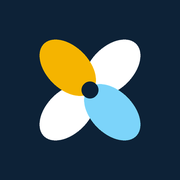
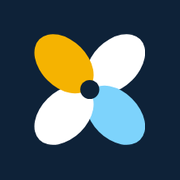
Nova versao do Evolui

Changed region(s): [[0.1667, 0.1667, 0.8056, 0.8056]]

diff --git a/index.html b/index.html
@@ -4,8 +4,9 @@
 <meta charset="utf-8">
 <meta name="viewport" content="width=device-width, initial-scale=1, viewport-fit=cover">
 <title>Evolui</title>
-<meta name="theme-color" content="#0D2237">
+<meta name="theme-color" content="#0E2238">
 <meta name="description" content="Evolui: ciclos de 30 dias, um registro por dia.">
+<script src="config.js"></script>
 <link rel="manifest" href="manifest.webmanifest">
 <link rel="icon" type="image/png" href="icon-192.png">
 <link rel="apple-touch-icon" href="apple-touch-icon.png">
@@ -84,25 +85,26 @@ button:focus-visible,input:focus-visible,textarea:focus-visible,select:focus-vis
 @media (prefers-reduced-motion:reduce){*{transition:none!important}}
 
 .brand{display:flex;align-items:center;gap:12px}
-.brand .logo{width:46px;height:46px;flex:none;background:#0D2237;border-radius:13px;padding:5px}
-.brand .logo svg{width:100%;height:100%;display:block}
+.brand .logo{width:46px;height:46px;flex:none;border-radius:13px;overflow:hidden;background:#0E2238}
+.brand .logo img{width:100%;height:100%;display:block}
 .by{display:flex;align-items:center;gap:6px;font-size:12.5px;color:var(--muted);margin-top:4px}
-.dayia{display:inline-flex;align-items:center;gap:5px;background:#0D2237;border-radius:999px;padding:3px 10px 3px 6px;font:700 13px/1 "Poppins",system-ui,sans-serif;color:#fff;letter-spacing:-.01em}
-.dayia svg{width:15px;height:15px;display:block}.dayia b{font-weight:700}.dayia i{font-style:normal;color:#7CD4FA}
-#splash{position:fixed;inset:0;z-index:99;background:#0D2237;display:flex;flex-direction:column;align-items:center;justify-content:center;gap:18px;transition:opacity .45s ease}
-#splash svg{width:96px;height:96px;animation:spin 1.1s ease-out}
+.dayia{display:block;height:22px;width:auto;background:#0E2238;border-radius:999px;padding:4px 10px}
+
+#splash{position:fixed;inset:0;z-index:99;background:#0E2238;display:flex;flex-direction:column;align-items:center;justify-content:center;gap:18px;transition:opacity .45s ease}
+#splash .sp-sym{width:104px;height:104px;animation:pop .8s ease-out}
+#splash .sp-logo{height:20px;width:auto;vertical-align:middle;margin-left:4px}
 #splash .name{font:600 34px/1 "Poppins",system-ui,sans-serif;color:#fff;letter-spacing:-.01em}
 #splash .sub{font:400 13px "Poppins",system-ui,sans-serif;color:#9DB0C4}#splash .sub b{color:#fff;font-weight:700}#splash .sub b span{color:#7CD4FA}
 #splash.hide{opacity:0;pointer-events:none}
-@keyframes spin{from{transform:rotate(-90deg) scale(.6);opacity:0}to{transform:none;opacity:1}}
-@media (prefers-reduced-motion:reduce){#splash svg{animation:none}}
+@keyframes pop{from{transform:scale(.8);opacity:0}to{transform:none;opacity:1}}
+@media (prefers-reduced-motion:reduce){#splash .sp-sym{animation:none}}
 </style>
 </head>
 <body>
-<div id="splash" aria-hidden="true"><svg viewBox="0 0 100 100" aria-hidden="true"><g><ellipse cx="66" cy="34" rx="24" ry="15" transform="rotate(-45 66 34)" fill="#fff"/><ellipse cx="34" cy="66" rx="24" ry="15" transform="rotate(-45 34 66)" fill="#fff"/><ellipse cx="34" cy="34" rx="24" ry="15" transform="rotate(45 34 34)" fill="#F5B400"/><ellipse cx="66" cy="66" rx="24" ry="15" transform="rotate(45 66 66)" fill="#7CD4FA"/><circle cx="50" cy="50" r="6" fill="#0D2237"/></g></svg><div class="name">Evolui</div><div class="sub">por <b>Day<span>IA</span></b></div></div>
+<div id="splash" aria-hidden="true"><img class="sp-sym" src="dayia-simbolo.png" alt=""><div class="name">Evolui</div><div class="sub">por <img class="sp-logo" src="dayia-logo.png" alt="DayIA"></div></div>
 <div class="wrap">
   <header class="top">
-    <div class="brand"><div class="logo"><svg viewBox="0 0 100 100" aria-hidden="true"><g><ellipse cx="66" cy="34" rx="24" ry="15" transform="rotate(-45 66 34)" fill="#fff"/><ellipse cx="34" cy="66" rx="24" ry="15" transform="rotate(-45 34 66)" fill="#fff"/><ellipse cx="34" cy="34" rx="24" ry="15" transform="rotate(45 34 34)" fill="#F5B400"/><ellipse cx="66" cy="66" rx="24" ry="15" transform="rotate(45 66 66)" fill="#7CD4FA"/><circle cx="50" cy="50" r="6" fill="#0D2237"/></g></svg></div><div><h1>Evolui</h1><div class="by">por <span class="dayia"><svg viewBox="0 0 100 100" aria-hidden="true"><g><ellipse cx="66" cy="34" rx="24" ry="15" transform="rotate(-45 66 34)" fill="#fff"/><ellipse cx="34" cy="66" rx="24" ry="15" transform="rotate(-45 34 66)" fill="#fff"/><ellipse cx="34" cy="34" rx="24" ry="15" transform="rotate(45 34 34)" fill="#F5B400"/><ellipse cx="66" cy="66" rx="24" ry="15" transform="rotate(45 66 66)" fill="#7CD4FA"/><circle cx="50" cy="50" r="6" fill="#0D2237"/></g></svg><b>Day<i>IA</i></b></span></div></div></div>
+    <div class="brand"><div class="logo"><img src="dayia-simbolo.png" alt=""></div><div><h1>Evolui</h1><div class="by">por <img class="dayia" src="dayia-logo.png" alt="DayIA"></div></div></div>
     <p id="subtitle">Ciclos de 30 dias, todos os dias da semana. Um registro por dia, sem pressa e sem culpa.</p>
   </header>
 
@@ -326,6 +328,70 @@ document.getElementById("bk-restore").onclick=()=>{const m=document.getElementBy
   catch(e){m.style.color="var(--hard)";m.textContent="Esse texto não parece um backup válido."}};
 
 sel=today();loadForm();renderRing();renderHist();fillBackup();renderThermo();
+</script>
+<div id="pw" hidden>
+ <div class="pw-box">
+  <h2>Continue evoluindo</h2>
+  <p id="pw-msg">Seu teste grátis terminou. Seus registros estão guardados e voltam assim que você liberar o app.</p>
+  <div class="pw-price"><b id="pw-preco"></b><span>pagamento único · sem mensalidade</span></div>
+  <a id="pw-buy" class="pw-btn" target="_blank" rel="noopener">Comprar agora</a>
+  <a id="pw-wa" class="pw-btn pw-ghost" target="_blank" rel="noopener">Já paguei: enviar comprovante</a>
+  <label for="pw-code" class="pw-lbl">Recebeu seu código de liberação?</label>
+  <div class="pw-row"><input id="pw-code" placeholder="EVO-XXXX-XXXX" autocomplete="off" autocapitalize="characters"><button id="pw-ok">Liberar</button></div>
+  <p id="pw-err" class="pw-err" role="alert"></p>
+  <button id="pw-close" class="pw-link" hidden>Voltar ao teste grátis</button>
+ </div>
+</div>
+<div id="pw-bar" hidden><span id="pw-bar-t"></span><button id="pw-bar-b">Comprar</button></div>
+<style>
+#pw{position:fixed;inset:0;z-index:90;background:rgba(13,34,55,.72);display:flex;align-items:center;justify-content:center;padding:18px}
+#pw[hidden],#pw-bar[hidden]{display:none}
+.pw-box{background:var(--card);color:var(--ink);border-radius:20px;max-width:400px;width:100%;padding:24px 20px;box-shadow:0 20px 50px rgba(0,0,0,.3)}
+.pw-box h2{margin:0 0 6px}.pw-box p{margin:0 0 14px;color:var(--muted);font-size:14.5px}
+.pw-price{display:flex;align-items:baseline;gap:10px;margin:4px 0 16px;flex-wrap:wrap}.pw-price b{font:700 30px/1 "Poppins",system-ui,sans-serif}.pw-price span{font-size:13px;color:var(--muted)}
+.pw-btn{display:block;text-align:center;text-decoration:none;font:600 15px "Poppins",system-ui,sans-serif;background:var(--accent);color:var(--on-accent);border-radius:12px;padding:13px;margin-bottom:9px}
+.pw-ghost{background:transparent;color:var(--ink);border:1.5px solid var(--line)}
+.pw-lbl{display:block;font-weight:600;font-size:14px;margin:14px 0 6px}
+.pw-row{display:flex;gap:8px}.pw-row input{flex:1;min-width:0;font:600 15px "Poppins",system-ui,sans-serif;letter-spacing:.04em;text-transform:uppercase;color:var(--ink);background:var(--bg);border:1px solid var(--line);border-radius:10px;padding:10px}
+.pw-row button,#pw-bar button{font:600 14px "Poppins",system-ui,sans-serif;border:0;border-radius:10px;padding:10px 14px;background:var(--accent);color:var(--on-accent);cursor:pointer}
+.pw-err{color:var(--hard)!important;min-height:1em;margin:8px 0 0!important;font-size:13.5px}
+.pw-link{background:none;border:0;color:var(--muted);text-decoration:underline;font:inherit;font-size:13.5px;cursor:pointer;margin-top:6px;padding:4px 0}
+#pw-bar{position:sticky;top:0;z-index:20;display:flex;align-items:center;justify-content:space-between;gap:10px;background:var(--calm-soft);color:var(--ink);font-size:13.5px;padding:8px 14px;padding-top:calc(8px + env(safe-area-inset-top,0px))}
+#pw-bar button{padding:7px 12px}
+</style>
+<script>
+(function(){
+const H=new Set(["f440cc915fedd67684de", "b70b27fd18d55c4e5898", "6865a328ab698c467c15", "5c60e9b879d292cd218f", "f94f9c318eca17fbd602", "467328454bd7fbc69d3b", "7de0c473af8fbbc092a1", "920c01b3b78fe6ebe1a0", "e0c1284f6dc6ad354e84", "5f3732ae5f9749616a73", "4c938134eb14663fc021", "1bf2090d89c1e58d5b45", "2ca3243a6008b0983c6b", "8c22e329fcf7831a6c8f", "cc27ae8f8731ce6e5567", "de97c9465198f86444e9", "548070bcf79be1530b44", "17c29d1f2d4170264593", "134da815cc632efac1a6", "b31752955ecc76bb8f1b", "148acf9289364fc78213", "f183013ebb3e5a0449ab", "6b6dc3bb40b4688b8d3b", "0ed15cfa8c7ae894c039", "e7362c27033478ab05fe", "1bfebb20115337502b0c", "e496c71604d6c9070564", "e1209a01c37edca468f6", "f11d559fce53af30a1f2", "3b1bfbf69a508eed7ccf", "5cd216c124cdf58d59af", "d021d26e4169cde00856", "a818c64684285917278e", "11675c6325f46dc5c39b", "385233d71f0fe06d3ba2", "ef37cc8d8484e082b68b", "2f98b664e1903b8d8a6f", "0a2fc50194936c894a48", "9c8c31ed885fc2daddbc", "bdd1b58e43ed8022e73a", "79d3f2a06817e604d702", "2087aff8d1af78b0285b", "a84464438f9efea2ca0e", "5c5d8b86131b37e0adb7", "8b5f6af1b60978609ab3", "60aa6f70e3086cca6449", "f63ffd5e94ed6200f752", "3129deac71981c53a35a", "fcd3deb6ae6f83958ef3", "c56a2d080361dad14a72", "70df7da0743ab94fe7e6", "65da1ec561d4d7b30279", "6cacff2f15fa456c144c", "f8109b99566a0791a8e8", "3c221ec625c932039f3b", "cd4edc15c2b1f03d3969", "d5484441670870e124a4", "153accf03c57a78367cf", "ecdf4a9ff21e5104772a", "068455c5ecbffc81892a", "918a25ace17365a1ecaa", "162810641bca502ec9cd", "c02052f6da1f76cc8a0f", "2a88aa8c26ca6249165b", "49db99de77af6a05c8d6", "ef48f590a66358a94e51", "15807b63b5c4444604e9", "3c745a0c7ef9748d17c5", "88f6bb057d6356afbd5d", "c7c2b85ff99f35965c6f", "30bd3a418cf1bdb2f8d2", "ab6a4a2f2a72b286dc8c", "272171bef6fe85f30bac", "76f1dd3566f23bd524ac", "39b3d036a9e09ba555f6", "337a2d326c55931b0b9d", "6d8ef9a5ce97f9e426e7", "c4e39a12552dc326449e", "178993f4ad981506631e", "5170d3e5da969f3dcc8a", "1d65356915dc6d8b8279", "bd5e279d891445c6e2b0", "ef703d5004db6d8d9223", "4b7f67fedd1019384055", "52480b0c26205aacd34d", "ffc4398d4d809e18707c", "ae405c338cf8807715ce", "1604adf11eaa0df91263", "1f4b7bab018aeb34ba80", "532611d76e77ade544e9", "2f9647a97f9f8bbc2c75", "a576329632681acf2184", "ff73567e65e33c016492", "cf6fc70995f30a70179d", "7e9f08a2c823b63800e3", "26907080917fa92b9f07", "191995170cb027560bb6", "4a2320c8268f6e894071", "1a2cbae7f93608b531f1", "ea924efce144b0e9ee53", "357bb4cb91768f6e80c6", "7edd5f47fd4d03b63992", "a717f9f1a0e1048bd788", "5d33dce5dfe51a3910c3", "a0f96963f496f3506b99", "e9a1e51f969486333300", "83b3a9d339fd9ebf8d70", "b8453b4bc04644632525", "32c819a8b0bdd341d0e2", "6f010a6fad7ed743cf9c", "752e2bd8e27e9d37cc03", "625bc23dc6c4ecf9c99f", "497000119bb9399d60c7", "dacd9930322f88d13f27", "63c2c028524ee82801b0", "5439ac1278ed6c47e1ff", "05bcc93d61f99e72bafe", "e4e22bb05cde05dfcfae", "cd0d52db6d181f0ef665", "de3204e41a8c6f249337", "a8125a302d4b822da859", "c3ad1fd1f2f538775960", "a6ce99df59ac0af29ca7", "dba9efae56b110c82504", "ce754aef23f4bb15a197", "776ed7f1c2e940057acb", "90f893bcdb6211b9e5a3", "7ad5ecc66286ce57b3dc", "e5044b89053e4299431f", "c2600f5b9239b554859d", "8fe765e63d6cac3293dd", "8da8f43a4827001e5f11", "1271b534beaad637ab5f", "8652d6a21d85555399ca", "898156a2c138f935bc98", "bdc84ca241b8fe331370", "2cd8ca6945fb8dc67349", "f532178a217e6c8e4167", "1ee60a3a44159729e8ea", "a93aa1c80e70881c19d1", "39797e3b97b7213de09e", "770b5e78d9885b91eb1f", "e12a60cf4a989caa0874", "262725b6213094ff5aff", "bd48ebfef92e1acb208b", "d9a103235ce075b32dfd", "0cd5a5ccd557013707cb", "1c36efb1c0cfc49dbc9e", "d2c2708acdd5bfd694c2", "155d27b845815f6816f4", "f6579e7d51d83f79c1d2", "74b8993bf5be15f518ae", "e130df5e8f50a3b54a5e", "958b80da9728d337ffa6", "b684a107e161f8c94bea", "86db1a20b9fa792a51e8", "2d59a060be5a75b6c67e", "f622fe6caaa6652a6c84", "f75ba00535a2f2d79440", "bdd9d92df4591ccf53fa", "4e3bd82100775454054d", "39dae151ace619934e35", "c2b064b4fb517f5934fc", "7b17d6ef227f81ec848e", "9ce2f29a410ec490238f", "60bfab9245ed74fed03a", "3b5fb42074d7f99433d3", "a398e48c66bae9c01ec1", "77136151777865ff1d4f", "d54543e8cfc02808af2f", "ef436d74b7e40ebc4e61", "d057109024ccc012f1cf", "1e53211e9bff2230f6f3", "e01406201b972b65d453", "7ad46dcb0cc6cecc7860", "89c53431d82c747dd9cf", "3b66e8327a26efa15e20", "b0f420b990a2280b8703", "d4e5e45e072be7564fad", "6809b289a2934436e1c5", "732896228d9e95da22e9", "c14fad5d2c97f8523cb1", "14fbebc4df67d739a01c", "fefccfd947a669b4e7d1", "2cc25225ab633e5cc992", "0e69016886c2a1558c33", "ade8725507ed532d65c1", "3bf3ccc49aadaf6f6c4c", "9bf69a840735372f2a56", "92d8df1f563ef49dc648", "e34f790e5a9986b75ae2", "11069e8dfabf81518134", "d5a241fef020d8868bcb", "c85402973077f1026606", "8b20150dca95d762b0f5", "f6c7ec204393fafef5c1", "cd1dbc774b31a9dfcfc6", "10e69982e978d8eaff9d", "f3919b5cde028a557ceb", "79d4218eabc0bf30783b", "5a503be346bcfbe66fcb", "ae4839759c7e1c44041f", "6a9de059a50967e4d15c", "e86276c4bfb7022b45e8", "914c4b71e75ec2dc5209", "066b33aa2a4cdd39e87b", "408732ba53b32d3bb637", "91ec3867f9abafac05d8", "bff1f4193108dd922172", "ab0ec0e30f6e64096ba7", "3d8084e7305b556e4c69", "58c5880105497d849644", "b96eab654f7ec5bc50a9", "0de06ebf023ed3b1edac", "6f4b2794f9e04cf29aa7", "47fee2979cb05d753a13", "452651f377bb9374fbad", "4b32eccfb311ae89f94e", "8a54ac1a97ff38ca51d1", "f6b7b8d6f0845db5dc57", "cdf87357bb3f91dd9481", "578d59b5128fbbb0ab44", "1d3be21973f847d1d626", "2edfa2d267ecfcfc51df", "5762da3ee392d9b614ac", "4cf8400adccbf9c5fccb", "365ba62a2f98d66c201b", "4d0720829849d4c84ace", "8f3cc7d04fdddb936a88", "96f04b177cb2d31ef14b", "a73a57dd81c9d101b4fb", "8fc804cdb890693255f7", "658a453bb251d514c58f", "40a56080b42a019a9f9a", "71de3c4a4c40917b4e97", "bb5db7cda50597da8836", "df400078511271f711c0", "e9102396dcb359f7f68a", "569d821465a7672a6ca3", "a07faa5a16eaca231014", "8e6c90e064ee3d9a3c69", "faf9a97328e006e912eb", "ebc208179d4d627bfe8e", "5f8941ac1e36270fc7a5", "abbcb54464848a9ce41e", "a8059ee5c4ffafa20ea4", "d2ae72722a1b2a8ef1bc", "5326e7d7066f630547a5", "b4583f0e4ea067442e13", "a30671591e46ae109cb5", "d83b005c1218855f4ccd", "9ea6ae81d06c7d8666a5", "c870ac640ccfd2bb62fb", "315b2259a5d21fd73c22", "bc4a1f0a08eb959e64c0", "c44a2377de190376f38a", "5f96a8e5035071ae369f", "42d1be9569942f931c37", "64de891d02463fd56b64", "4b6f04ee706352e7124c", "3081683746b91255d866", "d9a3f428a04320918ae2", "26890f7eb9267aab268c", "41622c24225c6b7bfcd7", "ee9b234c97f193bc553e", "cdf8287f979a02ab40a6", "bcc2d503dbbae363aef9", "8427a3f261470d0fb7d0", "c7da3105a6cd03ca6791", "ce9b928a8de27161fbed", "1882d7a5dc96e40a018e", "bcd1dec7f1158ccd3dec", "7e1e8c70e93f56ac830c", "683a7a2e12ffcfc526ad", "39fd99dc78a08b62c428", "cda867aceade3a3e5ee4", "261d6f118e9d74c8c401", "970c686c5888f973a3af", "42016bfa9128a9fc3328", "a04ac31c151fa44c85a6", "a39fcaa96c5782173efd", "238a098735ab746e6e94", "fc6a004b57f899030d0e", "059e2858d90c25338ed3", "df6711dd7bd14711a74b", "80d3e950837d8e7dc223", "1c9b2d265493a0151494", "0274730d3ec44af2c2f4", "b6407344b5d1e645d59b", "800562f6b918e7ab2be0", "f829c4dde404462f970b", "20e2570cd2f272a60fdc", "49e894c3bbff6078ac11", "9ed79eb1024318b9bd4f", "8c9f7fa53957e5c77b85", "cc9f4c7166f67290cfa6", "fc925d763f560b750154", "2e261fc179261381a013", "81806222824fa0777e00", "b3eee3e8868cf518ad49"]);
+const LIC="evolui_licenca";
+const cfg={link:window.EVOLUI_LINK_PAGAMENTO||"",wa:(window.EVOLUI_WHATSAPP||"").replace(/\D/g,""),preco:window.EVOLUI_PRECO||"R$ 15,90"};
+const get=k=>{try{return localStorage.getItem(k)}catch(e){return null}}, set=(k,v)=>{try{localStorage.setItem(k,v)}catch(e){}};
+const norm=c=>(c||"").toUpperCase().replace(/[^A-Z0-9]/g,"");
+async function valido(c){c=norm(c);if(c.length<10)return false;const b=await crypto.subtle.digest("SHA-256",new TextEncoder().encode("evolui:"+c));return H.has([...new Uint8Array(b)].map(x=>x.toString(16).padStart(2,"0")).join("").slice(0,20))}
+const $=id=>document.getElementById(id), pw=$("pw"), bar=$("pw-bar");document.body.prepend(bar);
+let liberadoOk=false, pendente=null;
+$("pw-preco").textContent=cfg.preco;$("pw-buy").textContent="Comprar por "+cfg.preco;$("pw-buy").href=cfg.link;
+$("pw-wa").href="https://wa.me/"+cfg.wa+"?text="+encodeURIComponent("Olá! Comprei o Evolui ("+cfg.preco+") e vou enviar o comprovante para receber meu código de liberação.");
+function abrir(msg){pw.hidden=false;$("pw-close").hidden=false;$("pw-msg").textContent=msg;$("pw-err").textContent=""}
+function liberar(){liberadoOk=true;pw.hidden=true;bar.hidden=true}
+$("pw-close").textContent="Continuar explorando";
+$("pw-close").onclick=()=>{pw.hidden=true;pendente=null};
+$("pw-bar-b").onclick=()=>abrir("Libere o Evolui para sempre com um pagamento único. Depois de pagar, envie o comprovante e você recebe seu código.");
+// Bloqueia salvar e restaurar enquanto o app não estiver liberado
+document.addEventListener("click",e=>{
+ if(liberadoOk)return;
+ const alvo=e.target.closest&&e.target.closest("#save,#bk-restore");
+ if(!alvo)return;
+ e.preventDefault();e.stopPropagation();pendente=alvo.id;
+ abrir(alvo.id==="save"?"Gostou do Evolui? Para salvar o seu dia e acompanhar sua evolução, libere o app com um pagamento único. O que você escreveu continua aqui na tela.":"Para restaurar seus registros, libere o Evolui com um pagamento único.");
+},true);
+$("pw-ok").onclick=async()=>{const c=$("pw-code").value;$("pw-err").textContent="";
+ if(await valido(c)){set(LIC,norm(c));liberar();const p=pendente;pendente=null;
+  alert("Pronto! O Evolui está liberado neste aparelho. Guarde seu código: ele serve se você trocar de celular.");
+  if(p)$(p).click();}
+ else $("pw-err").textContent="Código não reconhecido. Confira as letras e os números e tente de novo."};
+$("pw-code").addEventListener("keydown",e=>{if(e.key==="Enter")$("pw-ok").click()});
+(async()=>{if(get(LIC)&&await valido(get(LIC)))liberar();else{bar.hidden=false;$("pw-bar-t").textContent="Modo demonstração: explore à vontade"}})();
+})();
 </script>
 <script>
 setTimeout(()=>{const sp=document.getElementById("splash");if(sp){sp.classList.add("hide");setTimeout(()=>sp.remove(),500)}},1300);

diff --git a/privacidade.html b/privacidade.html
@@ -1,0 +1,66 @@
+<!DOCTYPE html>
+<html lang="pt-BR">
+<head>
+<meta charset="utf-8">
+<meta name="viewport" content="width=device-width, initial-scale=1">
+<title>Política de Privacidade · Evolui</title>
+<style>
+:root{--bg:#F2F5F9;--card:#fff;--ink:#0D2237;--muted:#5B6B7D;--line:#D9E1EA}
+@media (prefers-color-scheme:dark){:root{--bg:#1B3654;--card:#24456A;--ink:#fff;--muted:#C2D1E1;--line:#36597F}}
+*{box-sizing:border-box}
+body{margin:0;background:var(--bg);color:var(--ink);font:16px/1.65 system-ui,-apple-system,"Segoe UI",Roboto,sans-serif}
+main{max-width:720px;margin:0 auto;padding:28px 18px 60px}
+.card{background:var(--card);border:1px solid var(--line);border-radius:16px;padding:22px 20px}
+h1{font-size:28px;line-height:1.2;margin:0 0 4px}
+h2{font-size:19px;margin:26px 0 6px}
+p,li{margin:0 0 10px}
+.muted{color:var(--muted);font-size:14px}
+a{color:inherit}
+</style>
+</head>
+<body>
+<main>
+<div class="card">
+<h1>Política de Privacidade do Evolui</h1>
+<p class="muted">Última atualização: 4 de outubro de 2026</p>
+
+<p>O Evolui é um aplicativo de registro diário, desenvolvido pela DayIA, para ajudar você a acompanhar como lidou com as situações do dia e a perceber sua evolução em ciclos de 30 dias. Esta política explica, de forma simples, o que acontece com as informações que você registra.</p>
+
+<h2>Resumo</h2>
+<p>O Evolui não coleta, não envia e não vende os seus dados. Tudo o que você escreve fica salvo apenas no seu aparelho. Nem a DayIA nem qualquer outra pessoa tem acesso aos seus registros.</p>
+
+<h2>Quais informações o app guarda</h2>
+<p>Ao usar o Evolui, você pode registrar: a data, como foi o seu dia, com quem você conviveu, os compromissos que conseguiu cumprir e anotações livres. Essas informações são gravadas no armazenamento local do navegador ou do aplicativo, dentro do seu próprio aparelho.</p>
+
+<h2>O que o app não faz</h2>
+<ul>
+<li>Não pede cadastro, nome, e-mail, telefone ou senha.</li>
+<li>Não envia seus registros para servidores da DayIA ou de terceiros.</li>
+<li>Não usa sua localização, câmera, microfone ou contatos.</li>
+<li>Não exibe anúncios e não usa ferramentas de rastreamento ou de análise de comportamento.</li>
+</ul>
+
+<h2>Serviços de terceiros</h2>
+<p>Para funcionar, o Evolui é hospedado no GitHub Pages e carrega a fonte de texto do Google Fonts. Ao abrir o app, esses serviços recebem dados técnicos comuns de qualquer acesso à internet, como o endereço IP e o tipo de navegador, de acordo com as políticas de privacidade do GitHub e do Google. Eles não recebem o conteúdo dos seus registros.</p>
+
+<h2>Cópia de segurança</h2>
+<p>O app oferece a opção "Copiar backup", que gera um texto com os seus registros. Esse texto só sai do aparelho se você mesmo decidir copiá-lo e guardá-lo em outro lugar, como num e-mail para você. A guarda dessa cópia é de sua responsabilidade.</p>
+
+<h2>Como apagar seus dados</h2>
+<p>Como os dados ficam só no seu aparelho, você pode apagá-los a qualquer momento desinstalando o app ou limpando os dados do navegador. Atenção: depois de apagados, os registros não podem ser recuperados, a não ser que você tenha uma cópia de segurança.</p>
+
+<h2>Crianças</h2>
+<p>O Evolui não é direcionado a crianças e não coleta intencionalmente nenhuma informação de menores de idade.</p>
+
+<h2>Seus direitos (LGPD)</h2>
+<p>A DayIA não armazena dados pessoais dos usuários do Evolui. Ainda assim, se tiver qualquer dúvida sobre privacidade ou sobre a Lei Geral de Proteção de Dados, você pode entrar em contato pelo e-mail abaixo.</p>
+
+<h2>Mudanças nesta política</h2>
+<p>Se o funcionamento do app mudar de forma que afete a sua privacidade, esta página será atualizada e a data no topo será alterada.</p>
+
+<h2>Contato</h2>
+<p>DayIA<br>E-mail: <a href="mailto:SEU-EMAIL-AQUI">SEU-EMAIL-AQUI</a></p>
+</div>
+</main>
+</body>
+</html>

diff --git a/sw.js b/sw.js
@@ -1,14 +1,15 @@
-const CACHE="evolui-v3";
-const FILES=["./","./index.html","./manifest.webmanifest","./icon-192.png","./icon-512.png","./icon-maskable-512.png","./apple-touch-icon.png"];
+const CACHE="evolui-v6";
+const FILES=["./","./index.html","./manifest.webmanifest","./icon-192.png","./icon-512.png","./icon-maskable-512.png","./apple-touch-icon.png","./config.js","./privacidade.html","./dayia-simbolo.png","./dayia-logo.png"];
 self.addEventListener("install",e=>{e.waitUntil(caches.open(CACHE).then(c=>c.addAll(FILES)));self.skipWaiting()});
 self.addEventListener("activate",e=>{e.waitUntil(caches.keys().then(k=>Promise.all(k.filter(n=>n!==CACHE).map(n=>caches.delete(n)))));self.clients.claim()});
 self.addEventListener("fetch",e=>{
   if(e.request.method!=="GET")return;
-  e.respondWith(caches.match(e.request).then(hit=>hit||fetch(e.request).then(res=>{
-    const url=new URL(e.request.url);
-    if(res.ok&&(url.origin===location.origin||url.hostname.endsWith("gstatic.com")||url.hostname.endsWith("googleapis.com"))){
-      const copy=res.clone();caches.open(CACHE).then(c=>c.put(e.request,copy));
-    }
-    return res;
-  }).catch(()=>caches.match("./index.html"))));
+  const url=new URL(e.request.url);
+  const guardar=res=>{if(res.ok){const c=res.clone();caches.open(CACHE).then(x=>x.put(e.request,c))}return res};
+  if(url.origin===location.origin){
+    // Internet primeiro (pega atualizações), cache se estiver offline
+    e.respondWith(fetch(e.request).then(guardar).catch(()=>caches.match(e.request).then(r=>r||caches.match("./index.html"))));
+  }else if(url.hostname.endsWith("gstatic.com")||url.hostname.endsWith("googleapis.com")){
+    e.respondWith(caches.match(e.request).then(r=>r||fetch(e.request).then(guardar)));
+  }
 });

diff --git a/config.js b/config.js
@@ -1,0 +1,11 @@
+// ===== CONFIGURAÇÃO DA VENDA DO EVOLUI =====
+// Troque os textos entre aspas e salve o arquivo.
+
+// 1) Cole aqui o link de pagamento do Mercado Pago (R$ 15,90):
+window.EVOLUI_LINK_PAGAMENTO = "COLE-AQUI-O-LINK-DO-MERCADO-PAGO";
+
+// 2) Seu WhatsApp com DDI e DDD, só números (ex.: 5519999998888):
+window.EVOLUI_WHATSAPP = "55DDDNUMERO";
+
+// 3) Preço exibido no app:
+window.EVOLUI_PRECO = "R$ 15,90";
